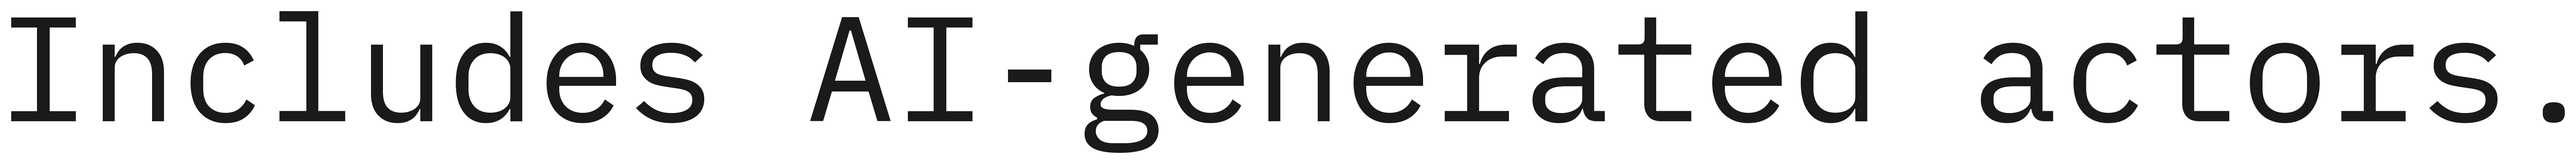
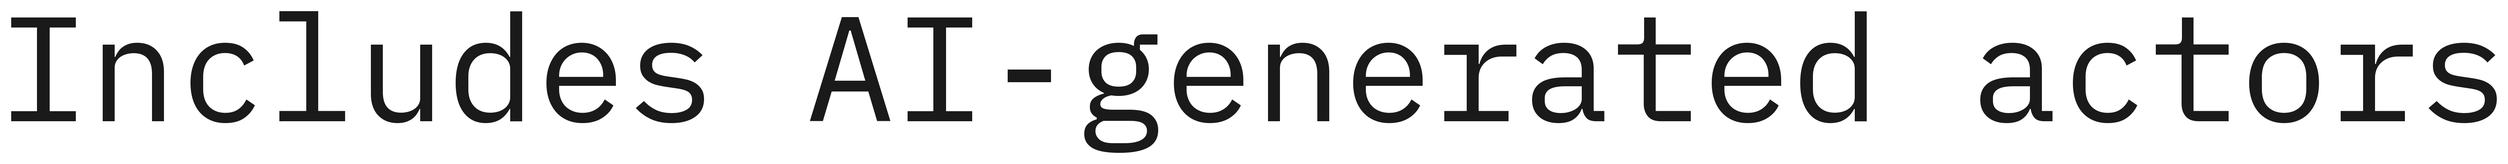
Add the AI disclosure rule for video
The rule agreed with Rabih in September 2026, confirmed by the
maintainer today.

- The AI mark sits bottom-right, inside the safe area, for the whole
  film. The sentence sits beside it for the first and last 3 to 4
  seconds. No closing card.
- The sentence is "Includes AI-generated actors", word for word, with
  no period. The two sentence files are the v3 artwork with the period
  cropped off the canvas; nothing else in them changed.
- brand/ai-disclosure/README.md carries the full rule (position, color,
  size, other aspect ratios, export). DESIGN.md 9.8, README.md and
  SKILL.md carry the short form.
- The specimen card now shows the sentence and mark the way they appear
  on screen: one line, same type size.

Still images have no rule yet and the README says so.

Claude-Session: https://claude.ai/code/session_019awhkctFMEWxQ8nz4eiUbL

Changed region(s): [[0.3112, 0.059, 0.996, 0.9433], [0.0311, 0.059, 0.2801, 0.7664]]

diff --git a/brand/brand-ai-disclosure.html b/brand/brand-ai-disclosure.html
@@ -1,19 +1,20 @@
 <!doctype html><html><head><meta charset="utf-8"><link rel="stylesheet" href="../colors_and_type.css"><style>
 html,body{margin:0;background:#000;color:#fff;font-family:var(--font-body)}
 .card{padding:32px 36px;display:grid;grid-template-columns:1fr 1fr;gap:24px}
-.cell{border-radius:16px;padding:28px 32px;display:flex;flex-direction:column;align-items:flex-start;justify-content:center;gap:20px;min-width:0}
+/* 1em = the sentence's canvas height. Both files are drawn at one scale, so the mark is 930/441 = 2.109em. */
+.cell{border-radius:16px;padding:28px 32px;display:flex;align-items:center;justify-content:flex-end;gap:.6em;min-width:0;font-size:clamp(9px,1.45vw,20px)}
 .cell.dark{background:#000;border:1px solid rgba(255,255,255,.18)}
 .cell.light{background:#fff}
-.mark{height:56px;width:auto;margin-left:-4px}
-.sentence{width:320px;max-width:100%;height:auto}
-@media (max-width:640px){.card{grid-template-columns:1fr}}
+.sentence{height:1em;width:auto;transform:translateY(.078em)}
+.mark{height:2.109em;width:auto}
+@media (max-width:640px){.card{grid-template-columns:1fr}.cell{font-size:11px}}
 </style></head><body class="napster"><div class="card">
   <div class="cell dark">
+    <img class="sentence" src="ai-disclosure/napster-ai-element-sentence-mono-white.png" alt="Includes AI-generated actors">
     <img class="mark" src="ai-disclosure/napster-ai-element-mark-white.png" alt="AI">
-    <img class="sentence" src="ai-disclosure/napster-ai-element-sentence-mono-white.png" alt="Includes AI-generated actors.">
   </div>
   <div class="cell light">
+    <img class="sentence" src="ai-disclosure/napster-ai-element-sentence-mono-black.png" alt="Includes AI-generated actors">
     <img class="mark" src="ai-disclosure/napster-ai-element-mark-black.png" alt="AI">
-    <img class="sentence" src="ai-disclosure/napster-ai-element-sentence-mono-black.png" alt="Includes AI-generated actors.">
   </div>
 </div></body></html>

diff --git a/brand/ai-disclosure/README.md b/brand/ai-disclosure/README.md
@@ -1,6 +1,6 @@
 # AI disclosure marks
 
-Napster's own marks for disclosing AI-generated actors. They are finished artwork. Use them as supplied whenever a piece needs the disclosure; do not commission or draw new ones.
+Napster's own marks for disclosing AI-generated actors. They are finished artwork. Use them as supplied; do not commission or draw new ones.
 
 ## What's in this folder
 
@@ -10,27 +10,43 @@ Two forms, each in two colors.
 |---|---|---|---|
 | `napster-ai-element-mark-black.png` | The AI mark | Black `#1A1A1A` | 1152×930 |
 | `napster-ai-element-mark-white.png` | The AI mark | White `#FAF9F6` | 1152×930 |
-| `napster-ai-element-sentence-mono-black.png` | The sentence | Black `#1A1A1A` | 6895×441 |
-| `napster-ai-element-sentence-mono-white.png` | The sentence | White `#FAF9F6` | 6895×441 |
+| `napster-ai-element-sentence-mono-black.png` | The sentence | Black `#1A1A1A` | 6715×441 |
+| `napster-ai-element-sentence-mono-white.png` | The sentence | White `#FAF9F6` | 6715×441 |
 
 All four are PNGs with a transparent background and a small margin built into the canvas.
 
-- **The AI mark.** The letters *AI* inside a rounded outline. The compact form.
-- **The sentence.** *Includes AI-generated actors.* on one line, set in IBM Plex Mono, the system's metadata face. The explicit form.
+- **The AI mark.** The letters *AI* inside a rounded outline.
+- **The sentence.** *Includes AI-generated actors* on one line, set in IBM Plex Mono, the system's metadata face. No period. Used word for word, every time. No variants, no paraphrase.
+
+## The rule for video
+
+Every video Napster publishes carries the disclosure. One rule for every export, so nobody decides film by film.
+
+| What | Rule |
+|---|---|
+| The AI mark | On screen from the first frame to the last. It never moves. |
+| Position | Bottom-right, inside the safe area: about 5% in from the right and bottom edges. That keeps it from being trimmed on export and clear of the like and share buttons on vertical video. |
+| The sentence | Sits directly left of the mark, on the same line. It shows for the first 3 to 4 seconds, then goes away while the mark stays exactly where it is. It comes back for the last 3 to 4 seconds. |
+| Closing card | None. There is no separate disclosure card at the end. |
+| Color | White over footage and dark frames, at 92% opacity with a 1px soft shadow. Black over light backgrounds. |
+| Size | Sized to read on a phone held upright. In practice the type is about 13px on a frame 1080px wide. |
+| Other shapes | Build at 16:9, then confirm the mark and sentence still sit inside the safe area at 9:16 and 1:1. |
+| Export | Keep Content Credentials (C2PA) metadata intact. If a step in the pipeline strips it, flag it. |
 
 ## Treatment
 
 - **Pick the color by background.** White on dark surfaces, black on light ones. Same rule as the logo.
-- **Use the files as supplied.** Do not redraw the mark, retype the sentence, reword it, recolor either one, or add effects.
+- **Use the files as supplied.** Do not redraw the mark, retype the sentence, reword it, or recolor either one. The soft shadow in the video rule is the only effect allowed.
 - **Scale proportionally.** Never stretch or crop into the built-in margin.
+- **Size the pair together.** Both files are drawn at one scale, so scale them by the same percentage and the letters match. Set that way, the mark's file is 2.11 times the height of the sentence's.
 
 ## Not set yet
 
-Placement, minimum size, and which form to use on which surface have not been defined. Do not infer rules from other brand systems. Ask the design system maintainer when a layout depends on them.
+Still images. Ads, social posts, booth graphics and print have no placement or size rule. Do not infer one from the video rule or from other brand systems. Ask the design system maintainer when a layout depends on it.
 
 ## Source
 
-Version 3 artwork, created in-house by Ziv Navoth and Rabih in October 2026. Original filenames: `napster_ai_element_{mark|sentence_mono}_{black|white}_v3.png`.
+Version 3 artwork, created in-house by Ziv Navoth and Rabih Chehab in September 2026. Original filenames: `napster_ai_element_{mark|sentence_mono}_{black|white}_v3.png`. The v3 sentence files ended with a period. The rule dropped it, so the two sentence files here are the v3 artwork with the period cropped off the canvas and nothing else changed.
 
 ---
 

diff --git a/DESIGN.md b/DESIGN.md
@@ -745,7 +745,7 @@ Hardware shots, product UI captures, spec details. Background is pure `#000000`.
 | Session flow, "pick → talk → shape → share" | `imagery/scenes/sessions/` |
 | Use cases (coding, writing, creative) | `imagery/scenes/usecases/` |
 | Decorative element, gradient panel, footer CTA, grain texture | `imagery/decorative/` |
-| AI disclosure, "Includes AI-generated actors", the AI mark | `brand/ai-disclosure/` |
+| AI disclosure on video, "Includes AI-generated actors", the AI mark | `brand/ai-disclosure/` (rule in § 9.8) |
 
 ### 9.6 Treatments
 
@@ -764,10 +764,13 @@ Hardware shots, product UI captures, spec details. Background is pure `#000000`.
 
 ### 9.8 AI disclosure
 
-When a piece needs to disclose AI-generated actors, use Napster's own marks. Two forms live in `brand/ai-disclosure/`: the **AI mark** (the letters *AI* in a rounded outline) and the **sentence** (*Includes AI-generated actors.*, set in IBM Plex Mono). Each ships in white for dark backgrounds and black for light ones.
+Every video Napster publishes discloses its AI-generated actors, with Napster's own marks. Two forms live in `brand/ai-disclosure/`: the **AI mark** (the letters *AI* in a rounded outline) and the **sentence** (*Includes AI-generated actors*, set in IBM Plex Mono, no period). Each ships in white for dark backgrounds and black for light ones.
 
-- Use the files as supplied. Do not redraw the mark, retype the sentence, reword it, or recolor either one.
-- Placement and minimum size are not defined yet. See `brand/ai-disclosure/README.md`.
+- **The mark stays up.** Bottom-right, inside the safe area (about 5% in from the right and bottom edges), from the first frame to the last. It never moves.
+- **The sentence opens and closes.** It sits directly left of the mark for the first 3 to 4 seconds, goes away, and comes back for the last 3 to 4 seconds. There is no separate closing card.
+- **Word for word.** *Includes AI-generated actors*. No variants, no paraphrase.
+- Use the files as supplied. Do not redraw the mark, retype the sentence, or recolor either one.
+- Still images have no placement rule yet. Color, size, export and other details are in `brand/ai-disclosure/README.md`.
 
 ---
 

diff --git a/README.md b/README.md
@@ -60,7 +60,7 @@ napster-design-system-unified/
 ├── brand/
 │   ├── overview.md                 # Personality, audience, emotional target
 │   ├── voice-and-tone.md           # Banned words, preferred vocabulary, five copy patterns
-│   └── ai-disclosure/              # AI disclosure marks: the AI mark + "Includes AI-generated actors." (black, white)
+│   └── ai-disclosure/              # AI disclosure marks: the AI mark + "Includes AI-generated actors" (black, white), and the rule for video
 ├── tokens/
 │   ├── colors.json                 # DTCG-format color tokens + gradients + usage ratio
 │   ├── colors-light.json           # DTCG-format light app-surface color peers
@@ -143,7 +143,7 @@ napster-design-system-unified/
 | Find atmospheric / cinematic background | `imagery/scenes/twin/` or `imagery/decorative/` |
 | Send a logo to a printer, manufacturer, or partner | `logos/README.md` § *File formats* (SVG, PDF, PNG) |
 | Answer a logo spec question (color, typeface, minimum size, Pantone) | `logos/README.md` § *Specifications* |
-| Disclose AI-generated actors | `brand/ai-disclosure/` |
+| Disclose AI-generated actors in a video | `brand/ai-disclosure/` (marks + the placement and timing rule) |
 | Audit a generated artifact | `DESIGN.md` § Do's and Don'ts |
 
 ## Non-negotiable rules

diff --git a/SKILL.md b/SKILL.md
@@ -17,7 +17,7 @@ Read `DESIGN.md` and `README.md` within this skill first. Then explore the rest.
 - `brand/overview.md` — personality, audience, emotional target.
 - `brand/voice-and-tone.md` — banned words, preferred vocabulary, five copy patterns, casing rules.
 - `logos/` — all approved Napster logos (wordmark, n-mark in three fidelities, lockups) as SVG, with PDF and PNG exports for vendors. `logos/README.md` holds the logo specifications.
-- `brand/ai-disclosure/` — the AI disclosure marks (the AI mark and the sentence *Includes AI-generated actors.*), black and white. Use as supplied.
+- `brand/ai-disclosure/` — the AI disclosure marks (the AI mark and the sentence *Includes AI-generated actors*), black and white, and the rule for video: mark bottom-right for the whole film, sentence beside it for the first and last 3 to 4 seconds. Use as supplied.
 - `icons/` — 22 bundled SVG line icons.
 - `reference/napster-com-audit.md` — live-site computed-style audit (the source of truth for live tokens).
 - `compositions/one-pagers/` — 3 one-pagers (platform, station, view).
